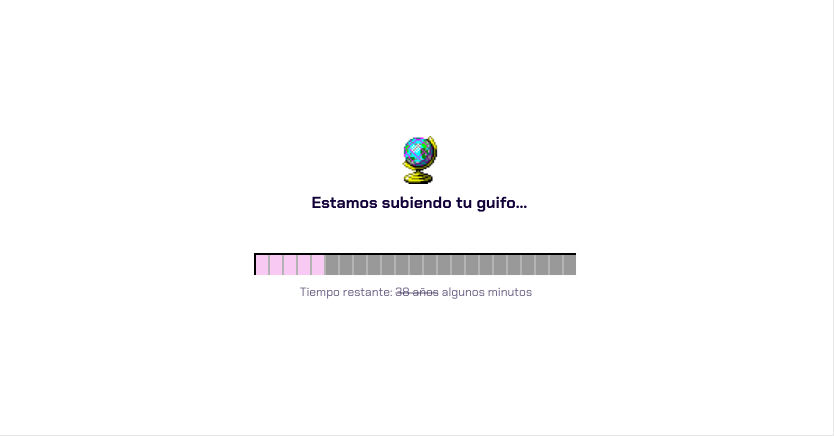
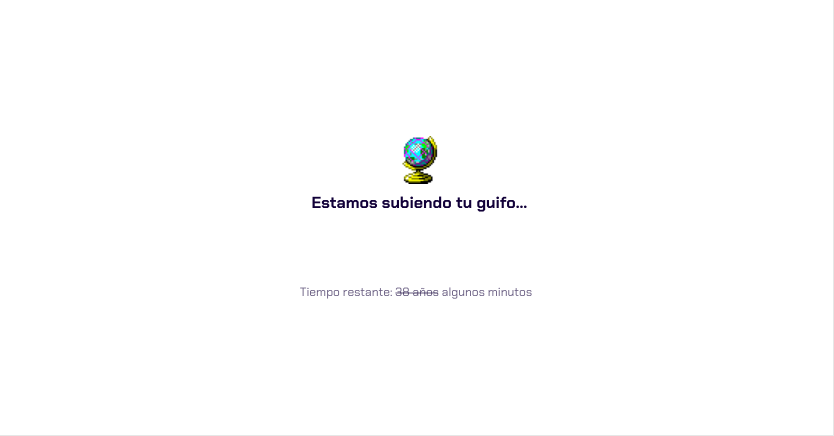
ultimo commit?

Changed region(s): [[0.2806, 0.5665, 0.717, 0.656]]

diff --git a/Scripts/scripts.js b/Scripts/scripts.js
@@ -8,8 +8,9 @@ searchtext.classList.add('separator');
 
 searchlimit = 50;
 
-//Funciones
-let getRandom = async() => {
+//Funciones de la pagina principal;
+
+let getRandom = async() => { /* Funcion para obtener los primeras 4 imagenes aleatoriamente*/
 
     randomDivArray = document.getElementsByClassName('randomSubContainer');
     randomSpanArray = document.getElementsByClassName('randSpan');
@@ -60,7 +61,7 @@ let getRandom = async() => {
 }
 
 
-let getTrending = async() => {
+let getTrending = async() => { /* Funcion para obtener una primera busqueda con todos los trending items*/
     const trending = await fetch('https://api.giphy.com/v1/gifs/trending?api_key=' + apiKey + '&limit=' + searchlimit);
     const trendingjson = await trending.json();
 
@@ -95,11 +96,18 @@ let getTrending = async() => {
     }
 }
 
-let checkKey = async(event) => {
+let checkPressedKey = async(event) => { /* Funcion para chequear las teclas presionadas en el input, y tomar decisiones basado en que aprieta el usuario*/
     let input = document.getElementById('search');
     let button = document.getElementById('search-button');
     let icon = document.getElementById('s-icon');
     let searchSuggestions = document.getElementsByClassName('search-suggestions')[0];
+
+    let theme = localStorage.getItem('th'); /*Chequeo que tema esta activo para poner la lupa correcta*/
+    if (theme == "Day") {
+        icon.src = "./assets/lupa.svg"
+    } else {
+        icon.src = "./assets/lupa_light.svg"
+    }
 
     if (input.value === "") {
         button.disabled = true;
@@ -108,11 +116,12 @@ let checkKey = async(event) => {
         searchSuggestions.classList.add('hide')
     } else if (event.code === 'Enter') {
 
+
         empezarBusqueda();
 
     } else {
         button.disabled = false;
-        icon.src = "./assets/lupa.svg"
+
         button.classList.add('search-button-on');
         searchSuggestions.innerHTML = '';
         let suggestion = document.createElement('a');
@@ -162,7 +171,7 @@ let empezarBusqueda = () => {
     tagcontainer.innerHTML = '';
     let termino = document.getElementById('search').value;
     document.getElementById('search').value = "";
-    checkKey(event);
+    checkPressedKey(event);
 
     if (termino == '') {
         document.getElementsByClassName('separators')[0].classList.remove('hide');
@@ -262,10 +271,10 @@ const changeThemeDay = () => {
     logo.src = "./assets/gifOF_logo.png"
     let favicon = document.getElementById('favicon');
     favicon.href = "./assets/gifOF_logo.png";
-    themepicker = localStorage.setItem("th", "Day")
-
+    themepicker = localStorage.setItem("th", "Day");
     let themeContainer = document.getElementsByClassName('themeContainer')[0];
     themeContainer.classList.add('hide');
+    checkPressedKey(event);
 
 
 }
@@ -277,13 +286,11 @@ const changeThemeNight = () => {
     let logo = document.getElementById('toplogo');
     logo.src = "./assets/gifOF_logo_dark.png"
     let favicon = document.getElementById('favicon');
-    favicon.href = "./assets/gifOF_logo_dark.png"
-    let icon = document.getElementById('s-icon');
-    icon.src = "./assets/lupa_light.svg"
-    themepicker = localStorage.setItem("th", "Night")
-
+    favicon.href = "./assets/gifOF_logo_dark.png";
+    themepicker = localStorage.setItem("th", "Night");
     let themeContainer = document.getElementsByClassName('themeContainer')[0];
     themeContainer.classList.add('hide');
+    checkPressedKey(event);
 
 }
 
@@ -298,7 +305,7 @@ const defaultheme = () => {
 
     if (themepicker == "") {
 
-        themepicker = localStorage.setItem("th", "Day")
+        themepicker = localStorage.setItem("th", "Day");
 
 
     } else {
@@ -342,3 +349,5 @@ let migifsection2 = () => {
     gifosContainer.classList.toggle('hide');
     mainContainer.classList.toggle('hide');
 }
+
+/*Creado por Federico Capucci - 2020 - Cba -  Argentina*/

diff --git a/Scripts/upload.js b/Scripts/upload.js
@@ -25,6 +25,7 @@ let clock = document.getElementById('timer');
 recording = false;
 
 
+
 // funciones
 
 
@@ -150,8 +151,35 @@ let TimerFn = () => {
     }, 1000);
 }
 
+let animateProgressBar = () => {
+    let counter = 0;
+    let progressBar = document.createElement('div');
+    progressBar.classList.add('progress-bar');
+    for (let i = 0; i < 18; i++) {
+        let progressBarItem = document.createElement('div');
+        progressBarItem.classList.add('progress-bar-item');
+        progressBar.appendChild(progressBarItem);
+    }
+
+    document.body.appendChild(progressBar);
+
+    setInterval(() => {
+        if (counter < 18) {
+
+            let progressBarItem = document.getElementsByClassName('progress-bar-item');
+            progressBarItem[counter].classList.toggle('progress-bar-item-active')
+            counter++;
+        } else {
+            counter = 0;
+        }
+    }, 100)
+}
+
+
+
 
 const createDataForApi = async() => {
+    animateProgressBar();
     mygifosbanner.innerHTML = "Subiendo Guifo";
     upload.innerHTML = "Subiendo..."
     preview.src = "./assets/uploading.png"
@@ -175,7 +203,8 @@ const createDataForApi = async() => {
     numOfMyGifos++;
     localStorage.setItem("numOfMyGifos", numOfMyGifos);
     localStorage.setItem("Gif#" + numOfMyGifos, ApiUploadJson.data.id);
-
+    let progressBar = document.getElementsByClassName('progress-bar')[0];
+    progressBar.style.display = "none";
     mygifosbanner.innerHTML = "Guifo subido con exito";
     preview.src = objectURL;
     preview.style.width = "50%";
@@ -283,12 +312,9 @@ let refresh = () => {
     window.location.reload()
 }
 
-
-
+//Disparadores
 
 recordBtn.onclick = empezar;
 upload.onclick = createDataForApi;
 
-function newFunction() {
-    showAllMyGifos();
-}
+/*Creado por Federico Capucci - 2020 - Cba -  Argentina*/

diff --git a/index.html b/index.html
@@ -10,6 +10,8 @@
     <link href="https://fonts.googleapis.com/css2?family=Chakra+Petch:wght@400;700&display=swap" rel="stylesheet">
 </head>
 
+<!-- Al cargar la pagina, chequeo el tema a mostrar, creo los 4 items random dinamicamente, creo la seccion trending, y creo la seccion mis gifos,que esta oculta por default -->
+
 <body onload="defaultheme(), getRandom(),getTrending(),showAllMyGifos()">
     <div class="heading">¡Bienvenidos/as a Guifos.com! ——————Donde los gifs están.////// Número de visitas: 31.087.007
     </div>
@@ -97,7 +99,7 @@
             <div class="searchtop">Buscar
             </div>
             <div>
-                <input type="text" autocomplete="off" placeholder="Busca lo que quieras!" id="search" onfocus="this.value='',checkKey()" onkeyup="checkKey(event)">
+                <input type="text" autocomplete="off" placeholder="Busca lo que quieras!" id="search" onfocus="this.value='',checkPressedKey()" onkeyup="checkPressedKey(event)">
                 <button class="search-button" id="search-button" onclick="empezarBusqueda()" disabled> <img id="s-icon"
                         src="./assets/lupa_inactive.svg" alt="buscar"> Buscar</button>
             </div>
@@ -121,3 +123,5 @@
 </body>
 
 </html>
+
+<!-- /*Creado por Federico Capucci - 2020 - Cba - Argentina*/ -->

diff --git a/styles/SailorNight.css b/styles/SailorNight.css
@@ -812,6 +812,31 @@ video {
     background: #dd4040;
 }
 
+.progress-bar {
+    display: flex;
+    justify-content: space-evenly;
+    align-items: center;
+    margin: auto;
+    width: 322px;
+    height: 25px;
+    background-color: #B4B4B4;
+    position: absolute;
+    top: 64.2%;
+    left: 43%;
+}
+
+.progress-bar-item {
+    width: 15px;
+    height: 20px;
+    background-color: #999999;
+}
+
+.progress-bar-item-active {
+    width: 15px;
+    height: 20px;
+    background-color: #EE3EFE;
+}
+
 .prop {
     padding: 6.5px 10px;
     width: 250px;
@@ -821,7 +846,7 @@ video {
     margin: 10px;
     text-align: center;
     vertical-align: middle;
-    color: black;
+    color: white;
     background: #2E32FB;
     border: 1px solid #110038;
     -webkit-box-shadow: inset -1px -1px 0 0 #997D97, inset 1px 1px 0 0 #FFFFFF;
@@ -853,3 +878,6 @@ video {
         width: 350px;
     }
 }
+
+
+/*Creado por Federico Capucci - 2020 - Cba -  Argentina*/

diff --git a/styles/SailorDay.css b/styles/SailorDay.css
@@ -815,6 +815,31 @@ video {
     background: #dd4040;
 }
 
+.progress-bar {
+    display: flex;
+    justify-content: space-evenly;
+    align-items: center;
+    margin: auto;
+    width: 322px;
+    height: 25px;
+    background-color: #B4B4B4;
+    position: absolute;
+    top: 64.2%;
+    left: 43%;
+}
+
+.progress-bar-item {
+    width: 15px;
+    height: 20px;
+    background-color: #999999;
+}
+
+.progress-bar-item-active {
+    width: 15px;
+    height: 20px;
+    background-color: #F7C9F3;
+}
+
 .prop {
     padding: 6.5px 10px;
     width: 250px;
@@ -855,3 +880,6 @@ video {
         width: 350px;
     }
 }
+
+
+/*Creado por Federico Capucci - 2020 - Cba -  Argentina*/
